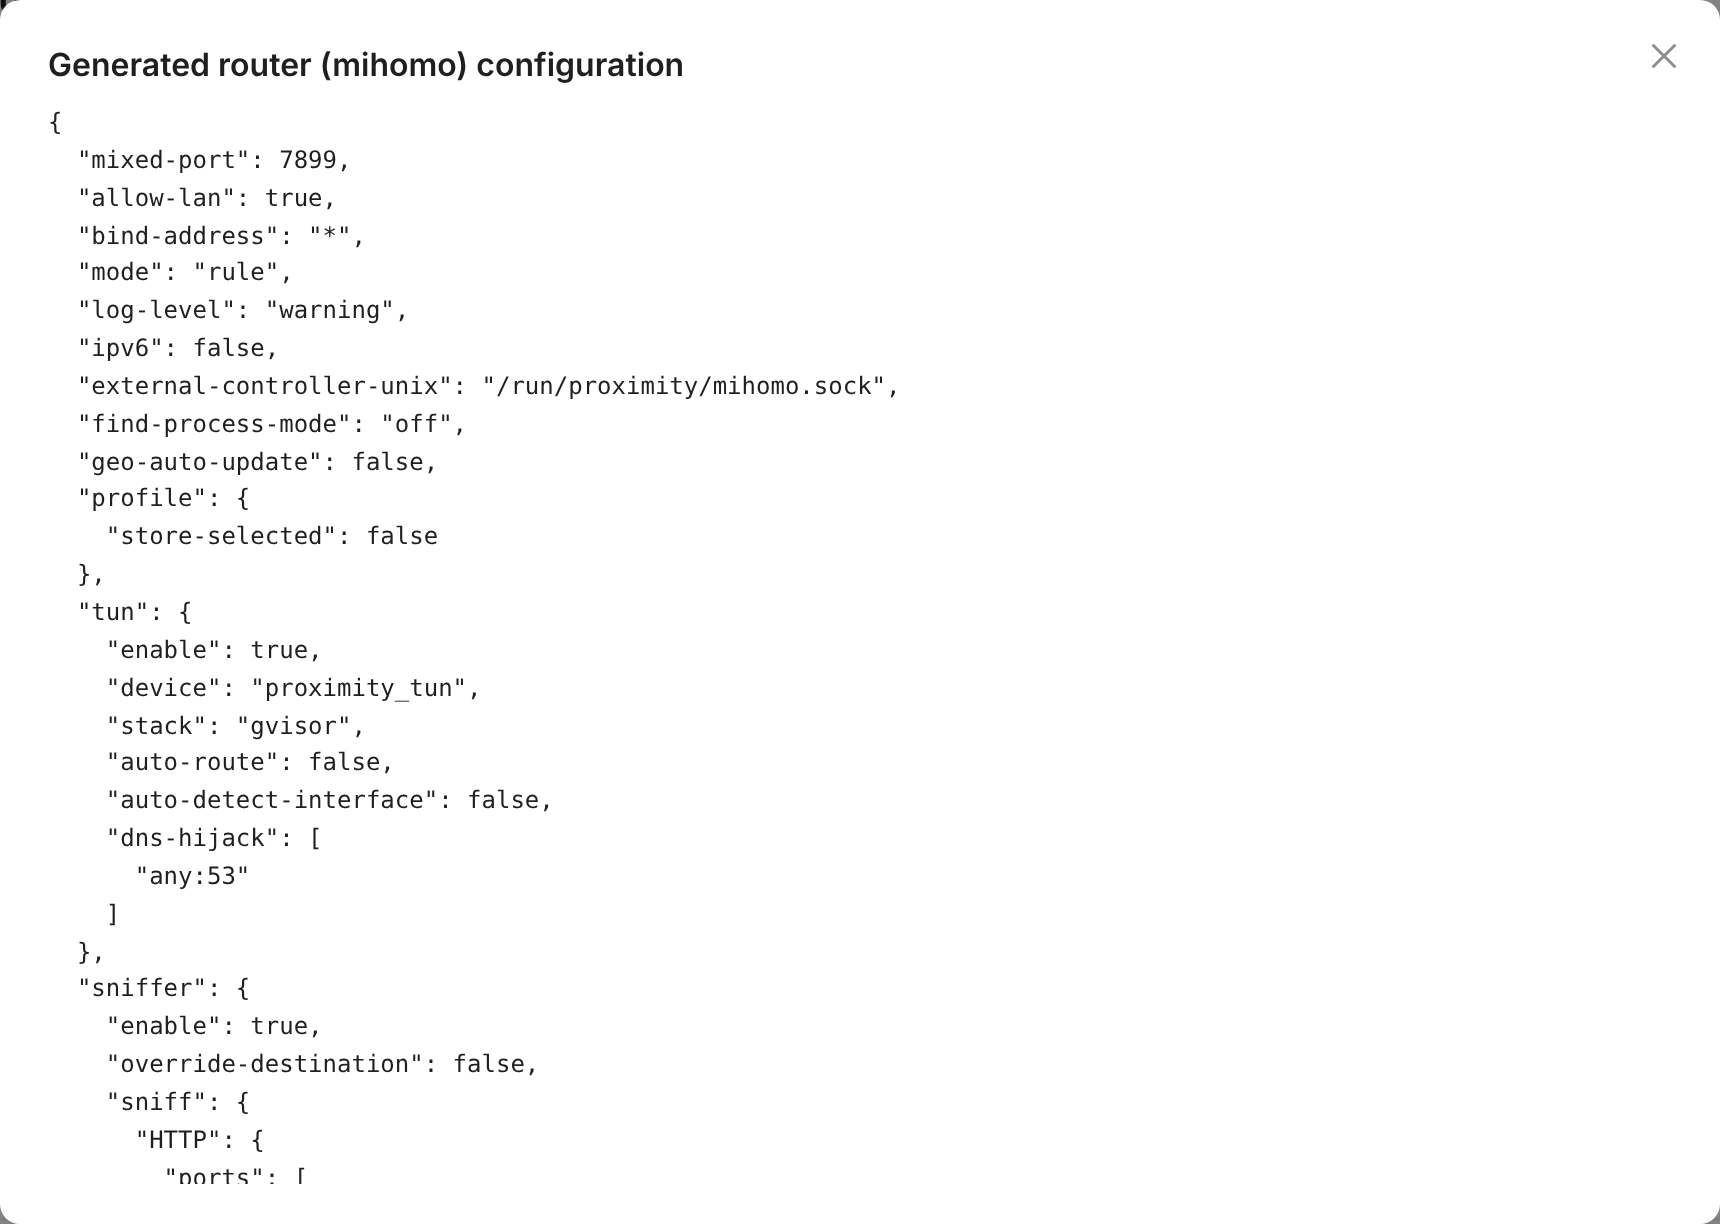
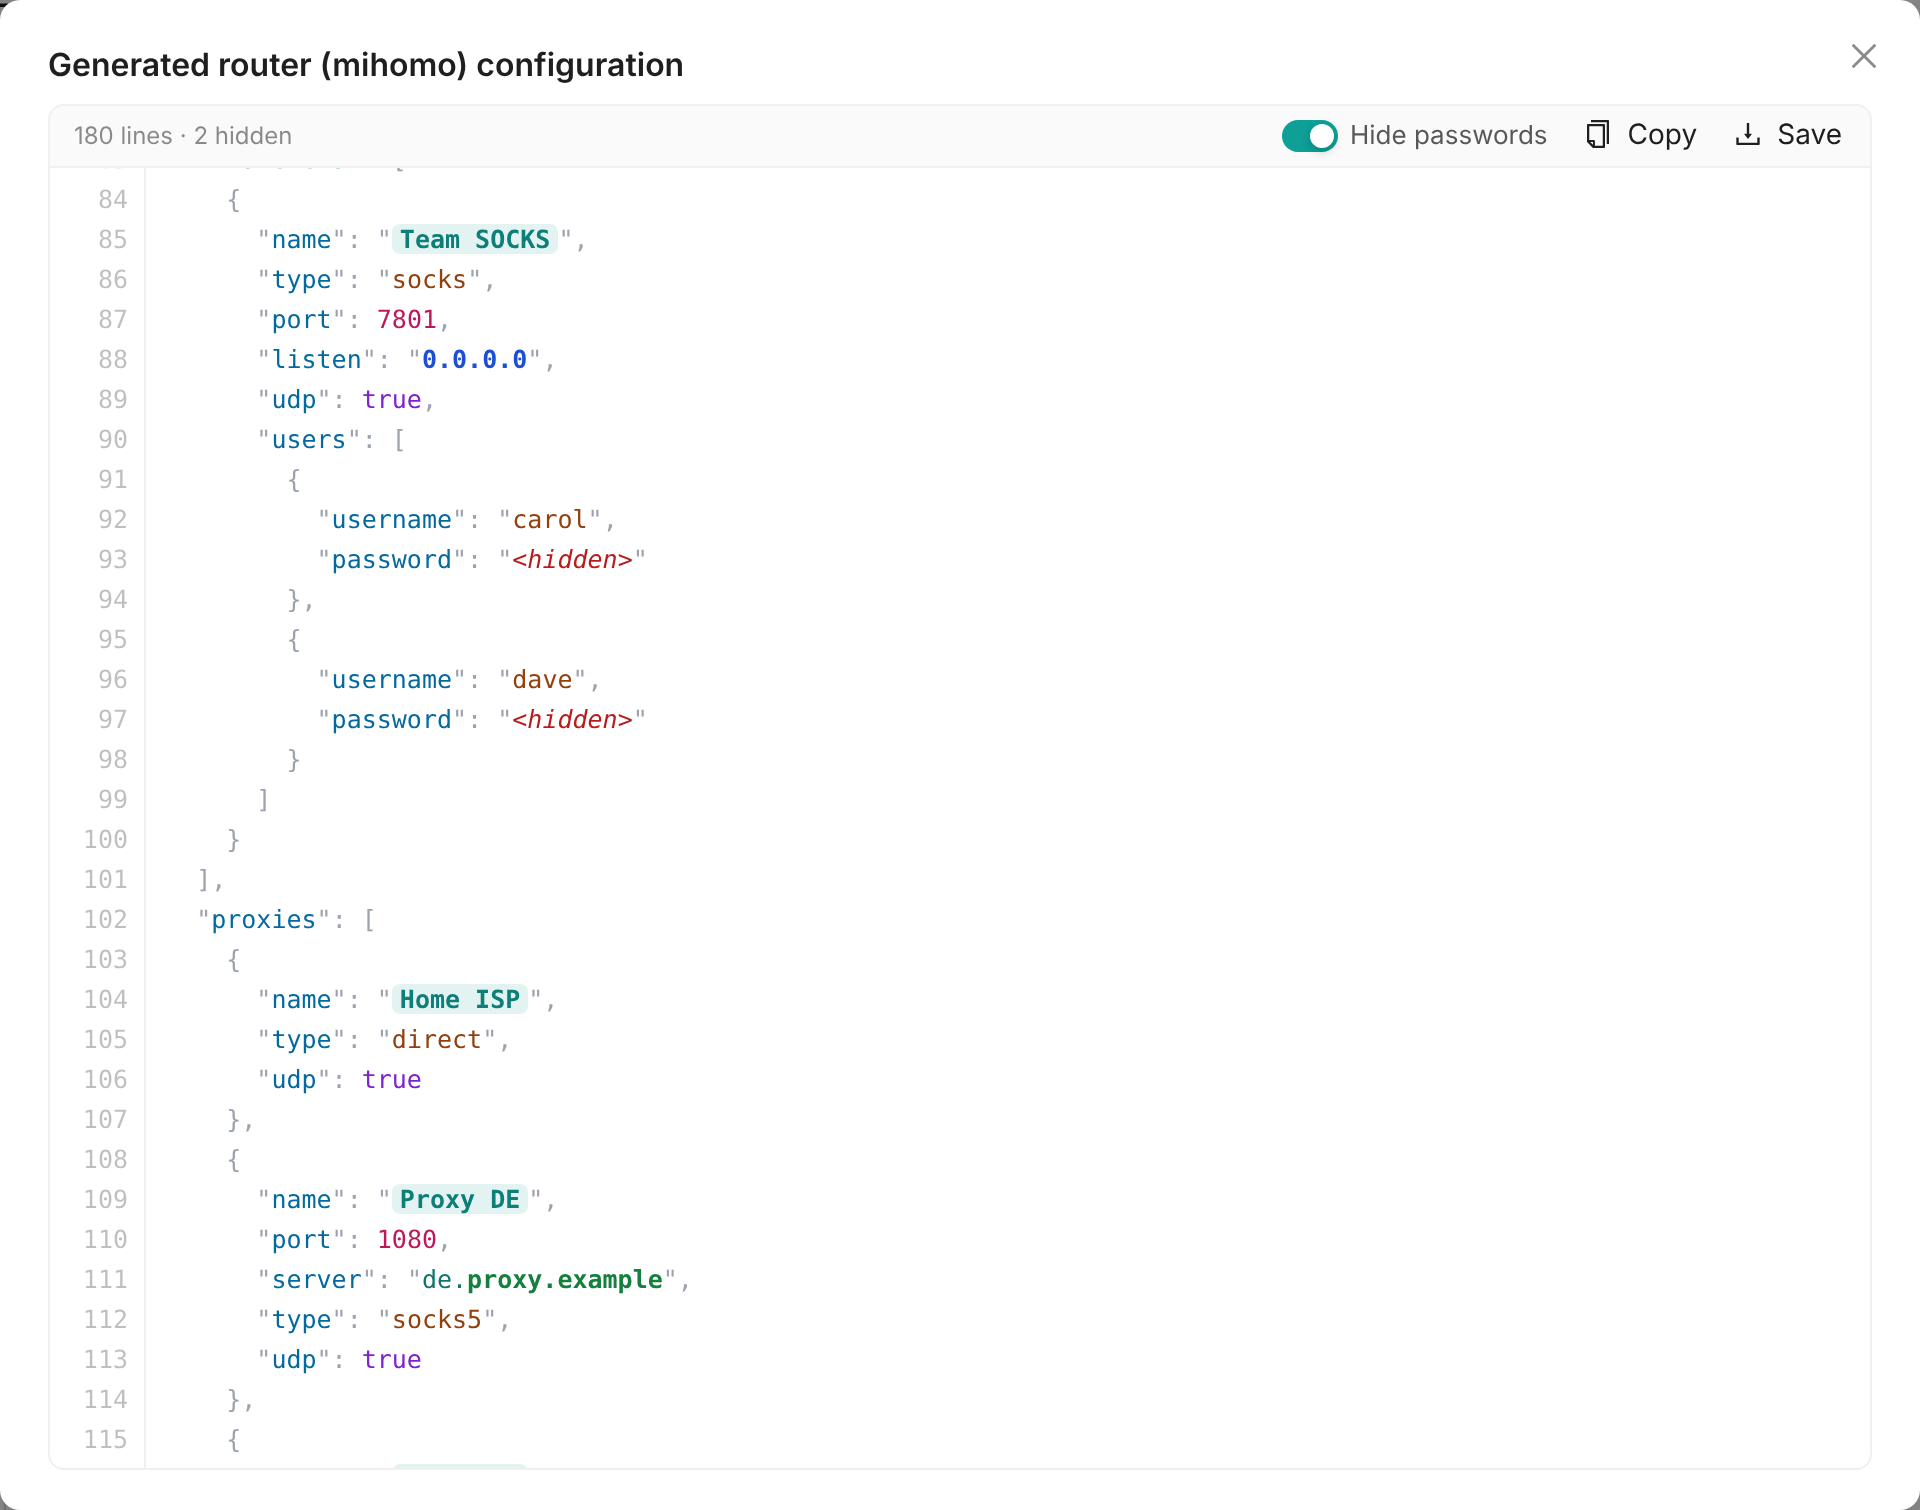
Highlight router configuration, add Copy, Save and hiding
Show the generated mihomo configuration with line numbers and syntax
highlighting: keys, strings, numbers, booleans, IP addresses, masks,
domains, ports and outbound names; the rules list is highlighted like
the router rules preview. Add Copy and Save buttons; Save downloads
mihomo-config-<date>-<time>.yaml. The Hide passwords switch, on by
default and remembered by the browser, replaces passwords and private
keys with "<hidden>" in the view, in Copy and in Save; the toolbar
shows how many values are hidden. Update docs and the screenshot.

diff --git a/web/src/components/ConfigView.vue b/web/src/components/ConfigView.vue
@@ -1,0 +1,93 @@
+<template>
+  <div :class="['config-view', { 'rule-dark': dark }]">
+    <div class="config-toolbar">
+      <span class="config-counts">{{ lines.length }} {{ lines.length === 1 ? 'line' : 'lines' }}<template v-if="hide && hidden.count"> · {{ hidden.count }} hidden</template></span>
+      <span class="config-spacer" />
+      <a-tooltip :title="`Passwords and private keys are replaced with ${hiddenValue} in the view, in Copy and in Save`">
+        <label class="config-switch"><a-switch v-model:checked="hide" size="small" /><span>Hide passwords</span></label>
+      </a-tooltip>
+      <a-tooltip title="Copy the configuration to the clipboard">
+        <a-button size="small" type="text" :disabled="!shown" @click="copy"><template #icon><CopyOutlined /></template>Copy</a-button>
+      </a-tooltip>
+      <a-tooltip :title="`Save as ${fileName}`">
+        <a-button size="small" type="text" :disabled="!shown" @click="save"><template #icon><DownloadOutlined /></template>Save</a-button>
+      </a-tooltip>
+    </div>
+    <div class="config-body">
+      <div v-for="(line, index) in lines" :key="index" class="config-row">
+        <span class="config-number">{{ index + 1 }}</span>
+        <span class="config-text"><span v-for="(part, position) in line" :key="position" :class="`rule-${part.kind}`">{{ part.text }}</span></span>
+      </div>
+    </div>
+  </div>
+</template>
+
+<script setup>
+import { computed, ref, watch } from 'vue'
+import { message, theme } from 'ant-design-vue'
+import { CopyOutlined, DownloadOutlined } from '@ant-design/icons-vue'
+import { hiddenValue, hideSecrets, highlightConfig } from './configSyntax'
+import { useDarkTheme } from './ruleTheme'
+import { copyText } from '../clipboard'
+import './rule-colors.css'
+
+const props = defineProps({ text: { type: String, default: '' }, fileName: { type: String, default: 'config.yaml' } })
+
+const { token } = theme.useToken()
+const dark = useDarkTheme(token)
+const storageKey = 'proximity-config-hide-passwords'
+const hide = ref(readHide())
+const hidden = computed(() => hideSecrets(props.text))
+const shown = computed(() => hide.value ? hidden.value.text : props.text)
+const lines = computed(() => shown.value ? highlightConfig(shown.value) : [])
+
+watch(hide, (value) => {
+  try {
+    localStorage.setItem(storageKey, value ? 'on' : 'off')
+  } catch (error) {
+    return
+  }
+})
+
+function readHide() {
+  try {
+    return localStorage.getItem(storageKey) !== 'off'
+  } catch (error) {
+    return true
+  }
+}
+
+async function copy() {
+  try {
+    await copyText(shown.value)
+    message.success(hide.value && hidden.value.count ? 'Configuration copied without passwords' : 'Configuration copied')
+  } catch (error) {
+    message.error('Clipboard is not available')
+  }
+}
+
+function save() {
+  const link = document.createElement('a')
+  link.href = URL.createObjectURL(new Blob([shown.value], { type: 'application/yaml' }))
+  link.download = props.fileName
+  link.click()
+  URL.revokeObjectURL(link.href)
+}
+</script>
+
+<style scoped>
+.config-view { border: 1px solid v-bind('token.colorBorderSecondary'); border-radius: v-bind('`${token.borderRadius}px`'); overflow: hidden;
+  background: v-bind('token.colorBgContainer'); }
+.config-toolbar { display: flex; align-items: center; gap: 2px; padding: 3px 6px 3px 12px; border-bottom: 1px solid v-bind('token.colorBorderSecondary');
+  background: v-bind('token.colorFillQuaternary'); }
+.config-spacer { flex: 1; }
+.config-switch { display: inline-flex; align-items: center; gap: 6px; margin-right: 8px; font-size: 13px; cursor: pointer;
+  color: v-bind('token.colorTextSecondary'); }
+.config-counts { font-size: 12px; color: v-bind('token.colorTextTertiary'); }
+.config-body { max-height: 65vh; overflow: auto; padding: 6px 0; }
+.config-row { display: flex; font-family: var(--font-mono); font-size: 12.5px; line-height: 20px; white-space: pre; }
+.config-row:hover { background: v-bind('token.colorFillQuaternary'); }
+.config-number { flex: none; width: 48px; padding-right: 8px; box-sizing: border-box; text-align: right; user-select: none;
+  color: v-bind('token.colorTextQuaternary'); border-right: 1px solid v-bind('token.colorBorderSecondary'); }
+.config-text { padding: 0 10px; color: v-bind('token.colorText'); }
+</style>

diff --git a/web/src/components/configSyntax.js b/web/src/components/configSyntax.js
@@ -1,0 +1,82 @@
+import { highlightLine, highlightRule } from './ruleSyntax'
+
+const linePattern = /^(\s*)(?:"((?:[^"\\]|\\.)*)"(\s*:\s*))?(.*?)(,?)$/
+const stringPattern = /^"((?:[^"\\]|\\.)*)"$/
+const numberPattern = /^-?\d+(?:\.\d+)?(?:[eE][+-]?\d+)?$/
+const portPattern = /^\d+(?:-\d+)?$/
+const domainKeys = ['nameserver-policy', 'hosts']
+const targetKeys = ['name', 'proxy', 'dialer-proxy']
+const targetArrays = ['proxies', 'use']
+const secretKeys = ['password', 'private-key', 'secret', 'token', 'pre-shared-key', 'psk', 'auth-str', 'uuid']
+const secretPattern = new RegExp(`^(\\s*"(?:${secretKeys.join('|')})"\\s*:\\s*)"(?:[^"\\\\]|\\\\.)*"`, 'gm')
+
+export const hiddenValue = '<hidden>'
+
+const token = (text, kind) => ({ text, kind })
+
+function clean(tokens) {
+  return tokens.length && !tokens.some((part) => part.kind === 'error') ? tokens : null
+}
+
+function scalar(text) {
+  if (portPattern.test(text)) return [token(text, 'number')]
+  const address = clean(highlightLine(text, 'IP-CIDR'))
+  if (address) return address
+  const hash = text.indexOf('#')
+  if (hash > 0) return [...scalar(text.slice(0, hash)), token('#', 'punctuation'), token(text.slice(hash + 1), 'target')]
+  if (/^[^\s/]+\.[^\s/]+$/.test(text) || /^[^\s/]+:\d{1,5}$/.test(text)) {
+    const location = clean(highlightLine(text, 'DOMAIN-SUFFIX'))
+    if (location) return location
+  }
+  return [token(text, 'string')]
+}
+
+function quoted(inner, parts) {
+  return [token('"', 'punctuation'), ...parts.filter((part) => part.text), token('"', 'punctuation')]
+}
+
+function value(text, key, parent) {
+  const found = text.match(stringPattern)
+  if (found) {
+    if (parent === 'rules' && !key) return quoted(found[1], highlightRule(found[1]))
+    if (secretKeys.includes(key)) return quoted(found[1], [token(found[1], 'secret')])
+    if (targetKeys.includes(key) || (!key && targetArrays.includes(parent))) return quoted(found[1], [token(found[1], 'target')])
+    return quoted(found[1], scalar(found[1]))
+  }
+  if (numberPattern.test(text)) return [token(text, 'number')]
+  if (/^(true|false|null)$/.test(text)) return [token(text, 'keyword')]
+  if (/^[[\]{}]+$/.test(text)) return [token(text, 'punctuation')]
+  return [token(text, 'plain')]
+}
+
+function name(text, parent) {
+  if (domainKeys.includes(parent)) return quoted(text, scalar(text))
+  return [token('"', 'punctuation'), token(text, 'key'), token('"', 'punctuation')]
+}
+
+export function hideSecrets(text) {
+  let count = 0
+  const result = text.replace(secretPattern, (match, prefix) => {
+    count++
+    return `${prefix}"${hiddenValue}"`
+  })
+  return { text: result, count }
+}
+
+export function highlightConfig(text) {
+  const stack = []
+  return text.replace(/\n$/, '').split('\n').map((line) => {
+    const found = line.match(linePattern)
+    if (!found) return [token(line, 'plain')]
+    const [, indent, key, separator, body, comma] = found
+    if (/^[}\]]/.test(body)) stack.pop()
+    const parent = stack.length ? stack[stack.length - 1] : ''
+    const result = []
+    if (indent) result.push(token(indent, 'plain'))
+    if (key !== undefined) result.push(...name(key, parent), token(separator, 'punctuation'))
+    result.push(...value(body, key, parent))
+    if (comma) result.push(token(comma, 'punctuation'))
+    if (/[[{]$/.test(body)) stack.push(key !== undefined ? key : parent)
+    return result
+  })
+}

diff --git a/web/src/views/Routes.vue b/web/src/views/Routes.vue
@@ -69,8 +69,8 @@
     </a-table>
     <Fallbacks @changed="load" />
     <RouteDialog v-model:open="visible" :route="editing" :targets="targets" :directives="directives" @saved="load" />
-    <a-modal v-model:open="configVisible" title="Generated router (mihomo) configuration" width="860px" :footer="null">
-      <pre class="mono log-view">{{ configText }}</pre>
+    <a-modal v-model:open="configVisible" title="Generated router (mihomo) configuration" width="960px" :footer="null">
+      <ConfigView :text="configText" :file-name="configFile" />
     </a-modal>
   </div>
 </template>
@@ -85,6 +85,7 @@ import {
 import { api, canEdit, id } from '../api'
 import { targetOptions as groupTargets } from '../format'
 import { routeTone, rowTone } from '../states'
+import ConfigView from '../components/ConfigView.vue'
 import Fallbacks from './Fallbacks.vue'
 import RouteDialog from './RouteDialog.vue'
 
@@ -111,6 +112,7 @@ const editing = ref(null)
 const allWarnings = ref(false)
 const configVisible = ref(false)
 const configText = ref('')
+const configFile = ref('mihomo-config.yaml')
 
 const shownWarnings = computed(() => allWarnings.value ? warnings.value : warnings.value.slice(0, 5))
 const warned = computed(() => new Set(warnings.value.flatMap((item) => item.keys)))
@@ -164,6 +166,7 @@ const setDefault = (target) => act(() => api.put('/api/routes/default', { target
 async function showConfig() {
   try {
     configText.value = (await api.get('/api/router/config')).config
+    configFile.value = `mihomo-config-${new Date().toISOString().replace(/\.\d+Z$/, '').replace(/[-:]/g, '').replace('T', '-')}.yaml`
     configVisible.value = true
   } catch (error) {
     message.error(error.message)

diff --git a/web/src/components/rule-colors.css b/web/src/components/rule-colors.css
@@ -30,3 +30,9 @@
 .rule-dark .rule-directive { color: #cbd5e1; }
 .rule-dark .rule-logic { color: #d8b4fe; }
 .rule-dark .rule-target { color: #5eead4; background: rgba(45, 212, 191, .14); }
+.rule-key { color: #0369a1; }
+.rule-string { color: #92400e; }
+.rule-dark .rule-key { color: #7dd3fc; }
+.rule-dark .rule-string { color: #e5c07b; }
+.rule-secret { color: #b91c1c; font-style: italic; }
+.rule-dark .rule-secret { color: #fca5a5; }

diff --git a/docs/development.md b/docs/development.md
@@ -136,6 +136,7 @@ repository every second, so edits in `web/src` reload the page. Run the Go binar
 | `src/components/RuleEditor.vue` | route parameters editor: highlighting overlay, line numbers, load, save and sort |
 | `src/components/logSyntax.js` | log line parser for `LogView.vue`: time stamp, severity, IP addresses, quoted text, level words, links |
 | `src/components/RulePreview.vue` | highlighted, numbered list of the generated router rules with **Copy** |
+| `src/components/ConfigView.vue`, `configSyntax.js` | generated mihomo configuration: line-based JSON highlighting (keys, strings, numbers, addresses, domains, targets, rules, secrets), **Hide passwords**, **Copy** and **Save** |
 | `src/components/ruleSyntax.js` | tokenizers for route parameters and generated router rules, the sort used by the editor |
 | `src/components/rule-colors.css`, `ruleTheme.js` | token colors for the light and dark themes shared by the editor and the preview |
 | `src/clipboard.js` | copy to the clipboard with a fallback for plain HTTP (no secure context) |

diff --git a/docs/user-guide.md b/docs/user-guide.md
@@ -323,7 +323,14 @@ when the route is off. The states refresh every 3 seconds.
 
 - 🔒 **provided** routes come from a VPN; they are read-only (👁 to view) but can be
   enabled and moved.
-- **Router configuration** — the complete generated mihomo configuration, read-only:
+- **Router configuration** — the complete generated mihomo configuration, read-only, with
+  numbered lines and highlighting: keys, strings, numbers and `true` / `false`, IP addresses
+  and masks, domains, ports, outbound and fallback names; the `rules` list is highlighted
+  like the router rules preview. **Hide passwords** (on by default, remembered by the
+  browser) replaces passwords and private keys with `"<hidden>"`; the toolbar shows how many
+  values are hidden. **Copy** puts the configuration on the clipboard, **Save** downloads it as
+  `mihomo-config-<date>-<time>.yaml` (time in UTC); both take the configuration as shown, so
+  with hidden passwords it can be shared but not used as is:
 
   ![Router configuration](images/router-config.png)
 

diff --git a/docs/architecture.md b/docs/architecture.md
@@ -124,7 +124,8 @@ Fallbacks become `proxy-groups`:
 A fallback with no enabled members is skipped with a warning; routes that target it are
 skipped too.
 
-The generated configuration can be viewed in **Routes → Router configuration**.
+The generated configuration can be viewed in **Routes → Router configuration** (highlighted,
+with **Copy** and **Save**). It is JSON, which mihomo reads as YAML.
 
 ![Generated router configuration](images/router-config.png)
 

diff --git a/docs/troubleshooting.md b/docs/troubleshooting.md
@@ -169,4 +169,4 @@ Please include:
 - `scripts/proximity.sh logs --tail 300`;
 - the connection log of the affected outbound (passwords are not printed there, but
   check before posting);
-- **Routes → Router configuration** with secrets removed.
+- **Routes → Router configuration** saved with *Hide passwords* on.
